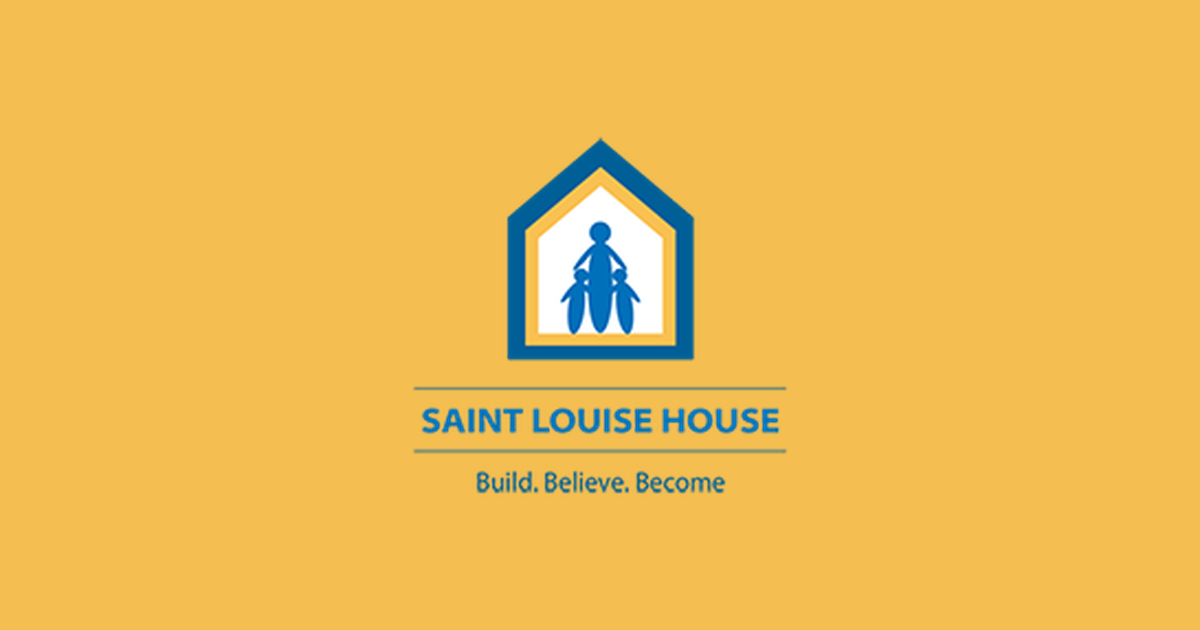
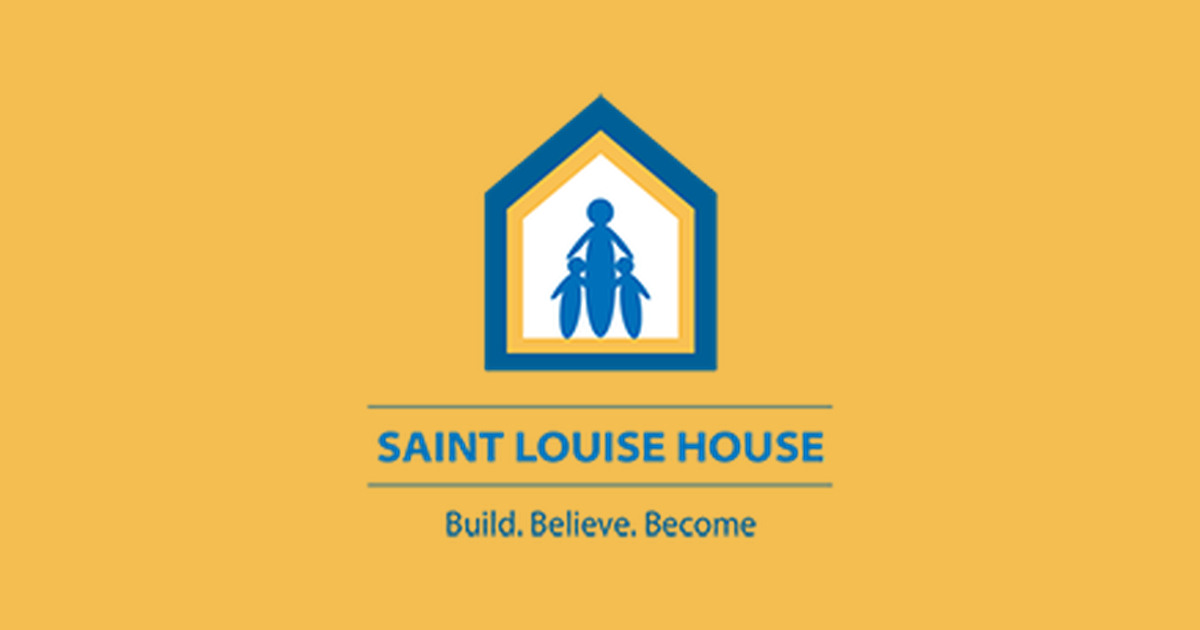
Fix OG image: use absolute URL and reduce padding
Social platforms (WhatsApp, iMessage, etc.) need absolute URLs for
og:image since their servers fetch the image remotely. Changed from
relative path to full https://slh-redesign.vercel.app/... URL on all
6 pages. Also updated og-image.png with less padding around the logo.

Changed region(s): [[0.3083, 0.1508, 0.7092, 0.7841], [0.37, 0.8143, 0.6475, 0.8746]]

diff --git a/prototype/programs.html b/prototype/programs.html
@@ -7,7 +7,7 @@
   <meta name="description" content="Saint Louise House provides wraparound services including stable housing, education, financial literacy, and wellness programs to help single mothers and children overcome homelessness in Austin, TX.">
   <meta property="og:title" content="Programs — Saint Louise House">
   <meta property="og:description" content="Saint Louise House provides wraparound services including stable housing, education, financial literacy, and wellness programs to help single mothers and children overcome homelessness in Austin, TX.">
-  <meta property="og:image" content="assets/images/og-image.png">
+  <meta property="og:image" content="https://slh-redesign.vercel.app/assets/images/og-image.png">
   <meta property="og:type" content="website">
   <meta property="og:site_name" content="Saint Louise House">
   <meta name="twitter:card" content="summary">

diff --git a/prototype/about.html b/prototype/about.html
@@ -7,7 +7,7 @@
   <meta name="description" content="Learn about Saint Louise House, an Austin, TX nonprofit empowering women and their children to overcome homelessness for generations through stable housing and wraparound services.">
   <meta property="og:title" content="About — Saint Louise House">
   <meta property="og:description" content="Learn about Saint Louise House, an Austin, TX nonprofit empowering women and their children to overcome homelessness for generations through stable housing and wraparound services.">
-  <meta property="og:image" content="assets/images/og-image.png">
+  <meta property="og:image" content="https://slh-redesign.vercel.app/assets/images/og-image.png">
   <meta property="og:type" content="website">
   <meta property="og:site_name" content="Saint Louise House">
   <meta name="twitter:card" content="summary">

diff --git a/prototype/index.html b/prototype/index.html
@@ -7,7 +7,7 @@
   <meta name="description" content="Saint Louise House empowers women and their children to overcome homelessness for generations through stable housing and wraparound services in Austin, TX.">
   <meta property="og:title" content="Saint Louise House — Empowering Women & Children to Overcome Homelessness">
   <meta property="og:description" content="Saint Louise House empowers women and their children to overcome homelessness for generations through stable housing and wraparound services in Austin, TX.">
-  <meta property="og:image" content="assets/images/og-image.png">
+  <meta property="og:image" content="https://slh-redesign.vercel.app/assets/images/og-image.png">
   <meta property="og:type" content="website">
   <meta property="og:site_name" content="Saint Louise House">
   <meta name="twitter:card" content="summary">

diff --git a/prototype/apply.html b/prototype/apply.html
@@ -7,7 +7,7 @@
   <meta name="description" content="Apply for stable housing and wraparound services at Saint Louise House. We serve single mothers and their children experiencing homelessness in Austin, TX.">
   <meta property="og:title" content="Apply for Housing & Services — Saint Louise House">
   <meta property="og:description" content="Apply for stable housing and wraparound services at Saint Louise House. We serve single mothers and their children experiencing homelessness in Austin, TX.">
-  <meta property="og:image" content="assets/images/og-image.png">
+  <meta property="og:image" content="https://slh-redesign.vercel.app/assets/images/og-image.png">
   <meta property="og:type" content="website">
   <meta property="og:site_name" content="Saint Louise House">
   <meta name="twitter:card" content="summary">

diff --git a/prototype/get-involved.html b/prototype/get-involved.html
@@ -7,7 +7,7 @@
   <meta name="description" content="Make a difference in the lives of women and children overcoming homelessness. Donate, volunteer, or host a drive to support Saint Louise House in Austin, TX.">
   <meta property="og:title" content="Get Involved — Saint Louise House">
   <meta property="og:description" content="Make a difference in the lives of women and children overcoming homelessness. Donate, volunteer, or host a drive to support Saint Louise House in Austin, TX.">
-  <meta property="og:image" content="assets/images/og-image.png">
+  <meta property="og:image" content="https://slh-redesign.vercel.app/assets/images/og-image.png">
   <meta property="og:type" content="website">
   <meta property="og:site_name" content="Saint Louise House">
   <meta name="twitter:card" content="summary">

diff --git a/prototype/contact.html b/prototype/contact.html
@@ -7,7 +7,7 @@
   <meta name="description" content="Get in touch with Saint Louise House. Reach our administrative or program offices, send us a message, or connect on social media.">
   <meta property="og:title" content="Contact Us — Saint Louise House">
   <meta property="og:description" content="Get in touch with Saint Louise House. Reach our administrative or program offices, send us a message, or connect on social media.">
-  <meta property="og:image" content="assets/images/og-image.png">
+  <meta property="og:image" content="https://slh-redesign.vercel.app/assets/images/og-image.png">
   <meta property="og:type" content="website">
   <meta property="og:site_name" content="Saint Louise House">
   <meta name="twitter:card" content="summary">

diff --git a/README.md b/README.md
@@ -24,7 +24,8 @@
 - 
 - 
 - 
-- add OG and favicon
+- add favicon
+- add OG
   - demo on imessage, whatsapp
 
 
